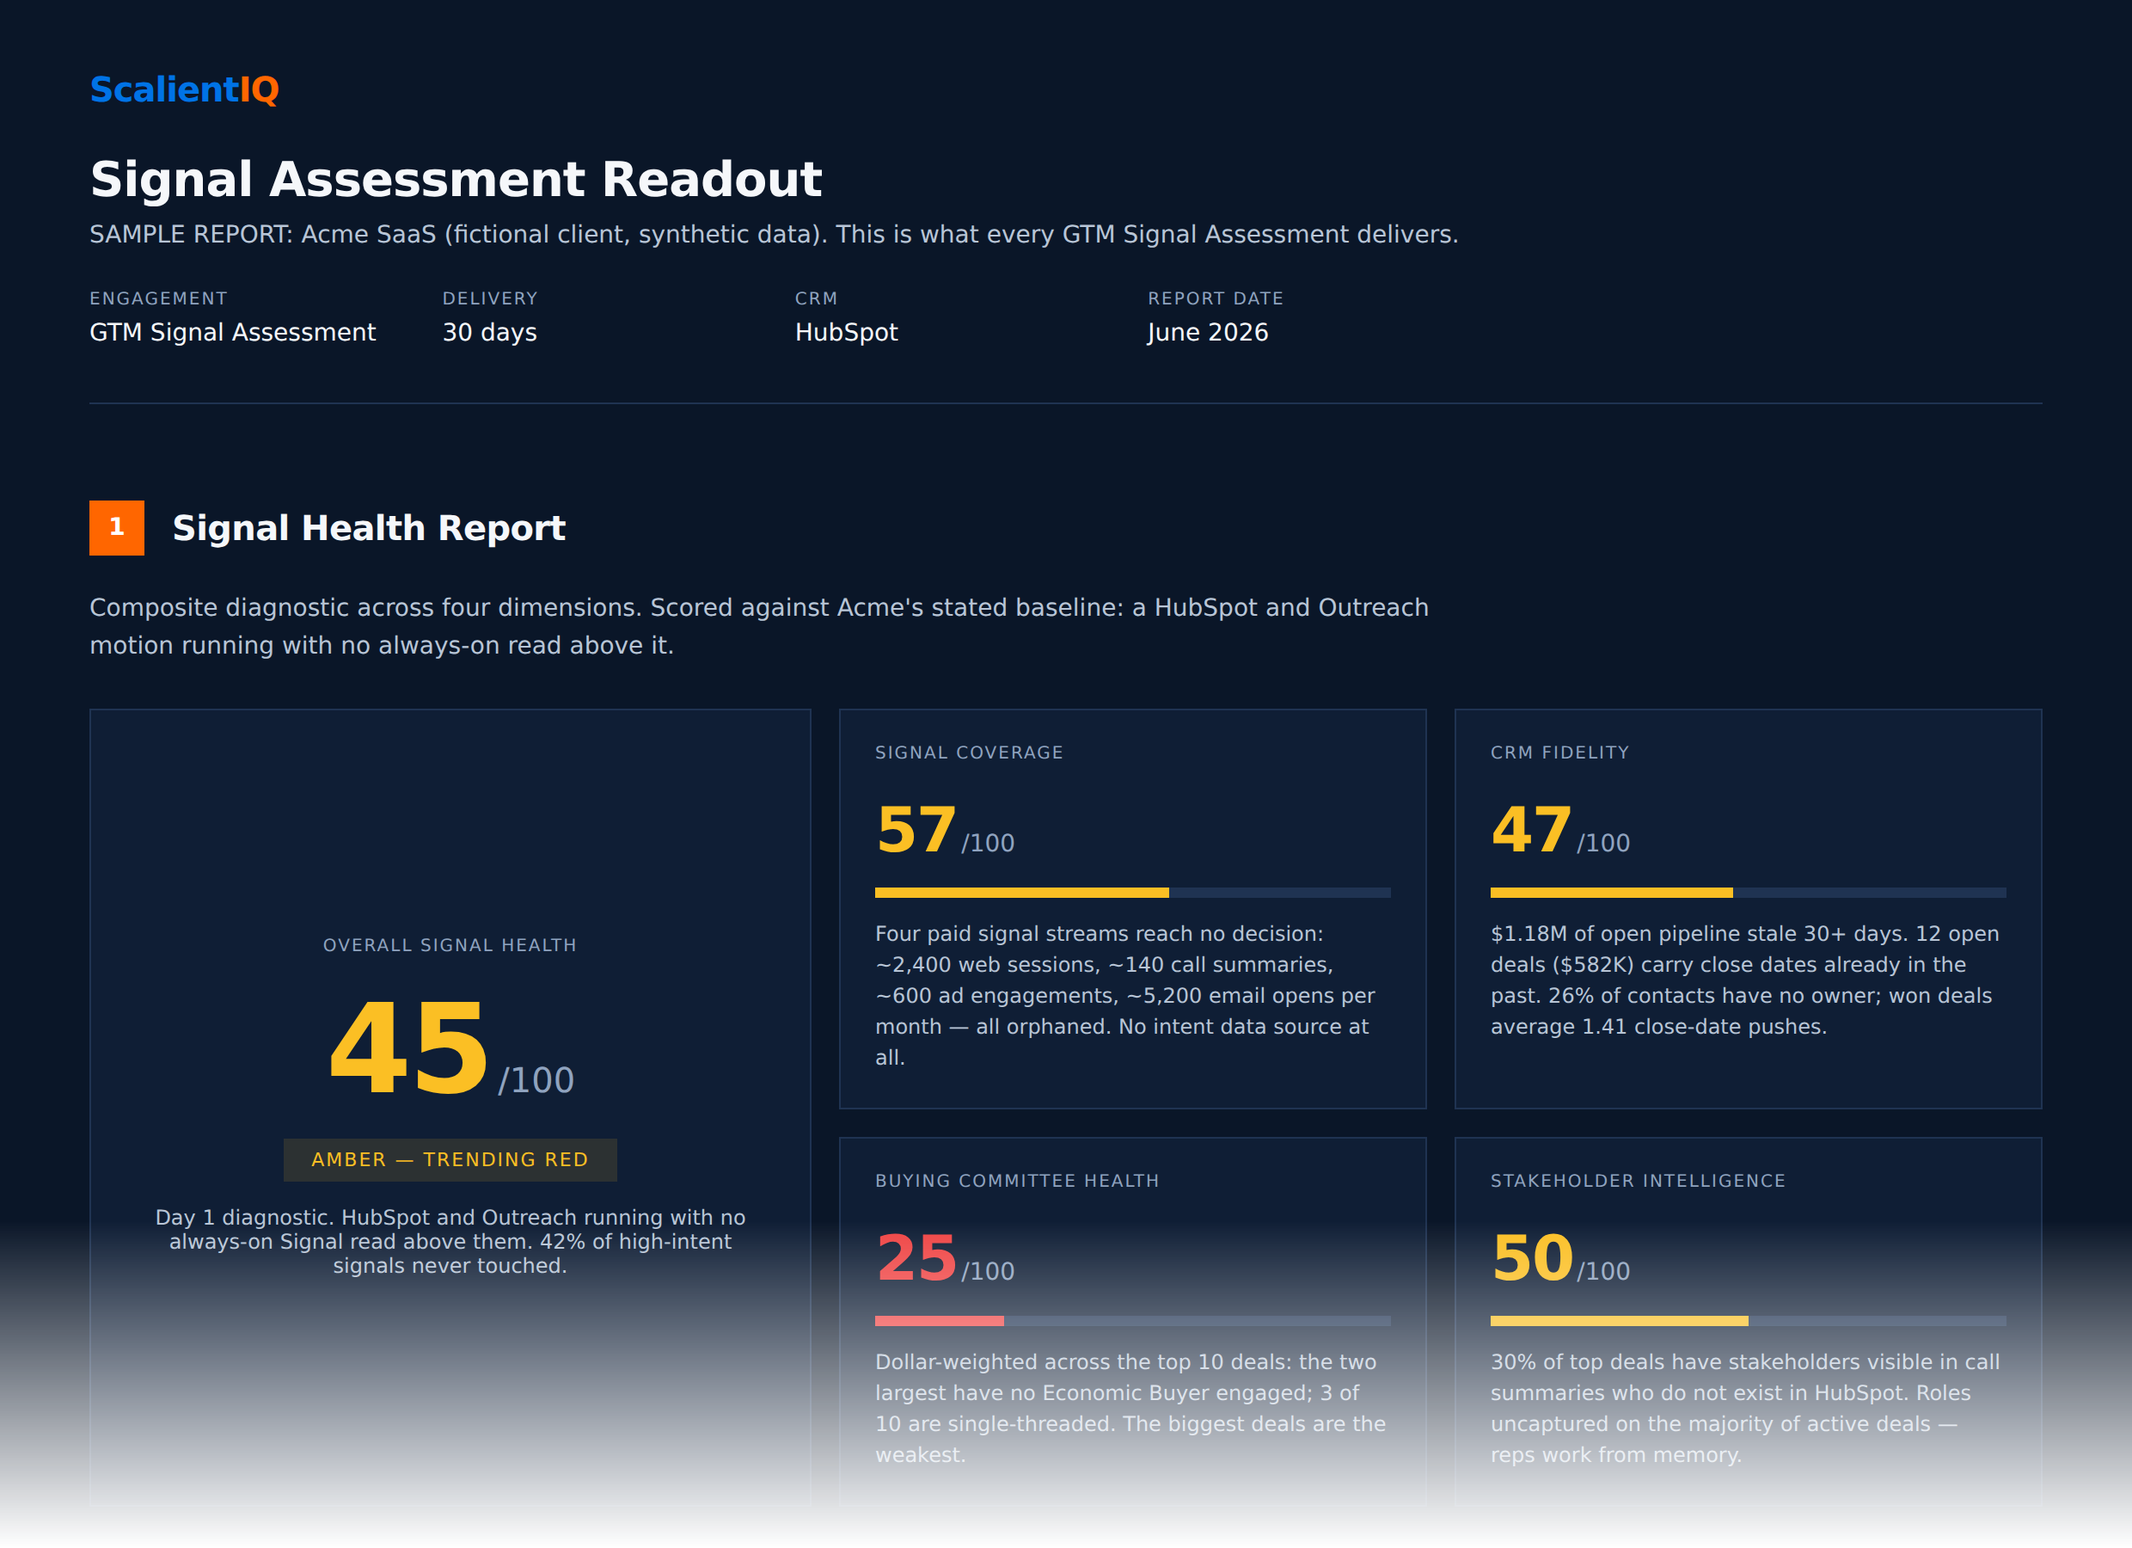
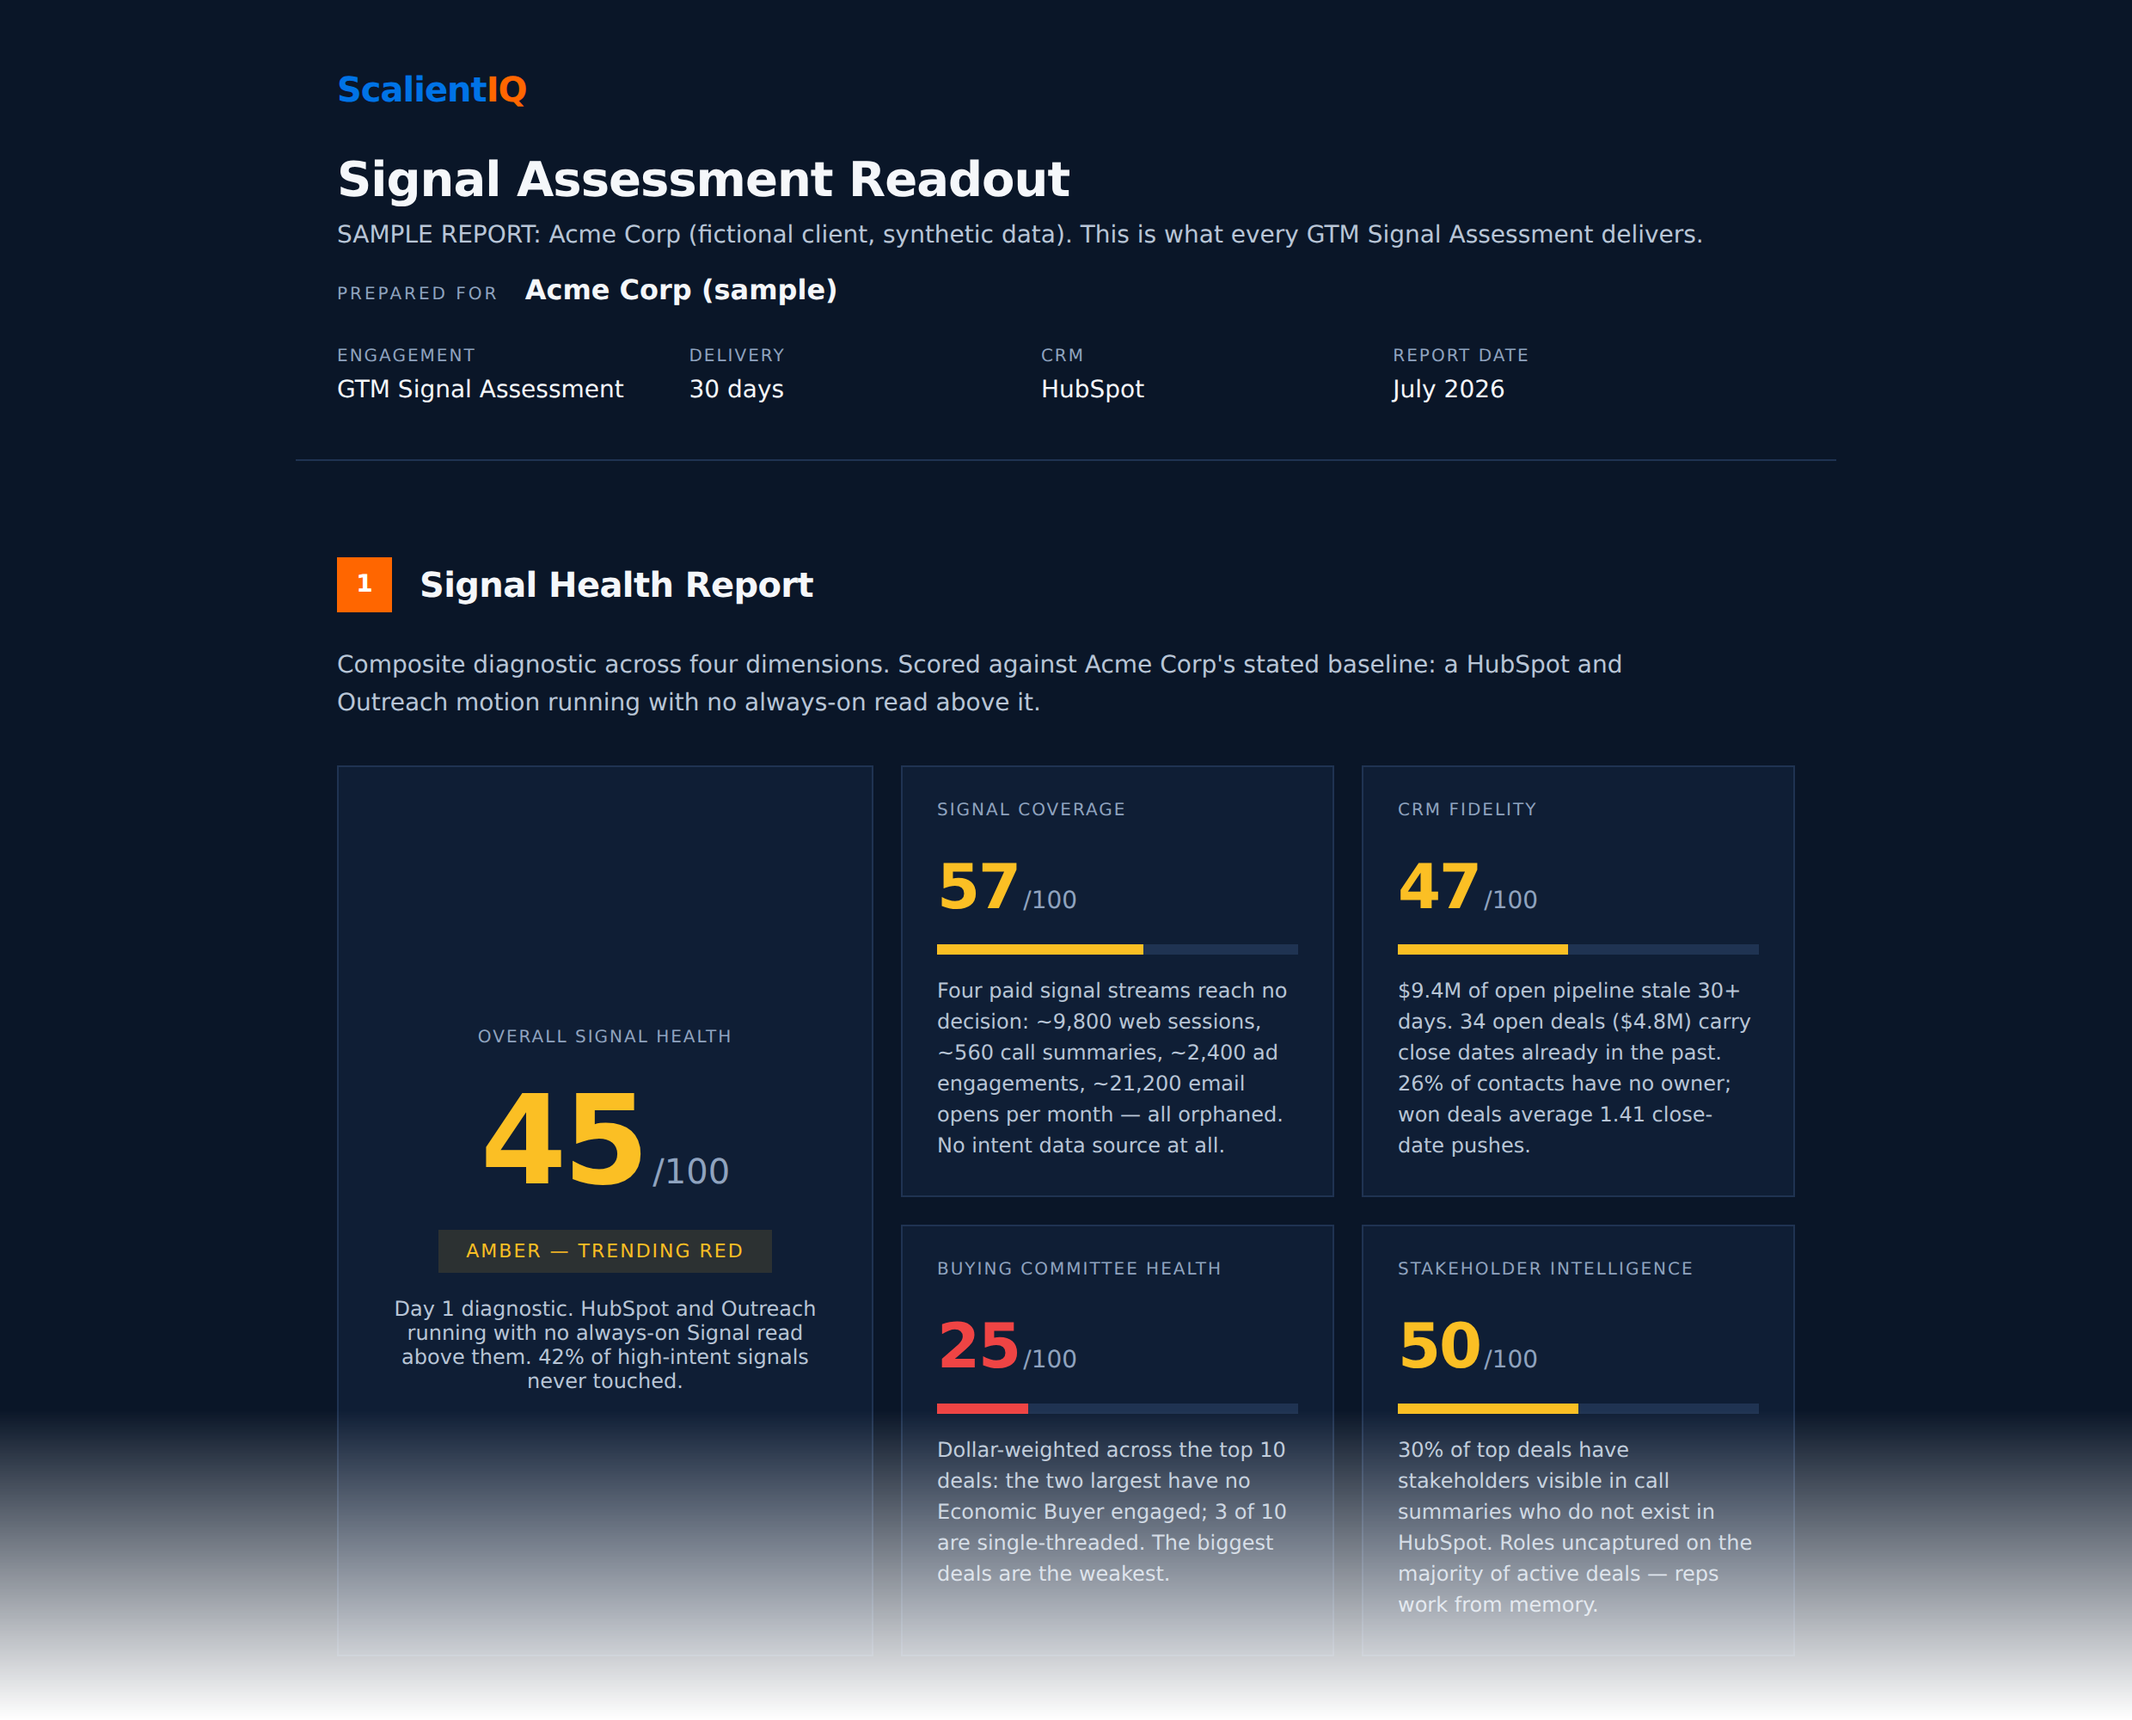
Results: enterprise-scale sample teasers (Sales + Demand, Acme Corp), bump card body copy to 16px

diff --git a/results.html b/results.html
@@ -67,14 +67,21 @@
 <section style="background: var(--siq-bg-elevated);">
   <div class="container">
     <div class="section-header">
-      <span class="eyebrow">Sample Readout</span>
-      <h2>A Look at the Signal Health Report</h2>
-      <p>A partial view of a sample GTM Signal Assessment readout, built on a fictional client (Acme SaaS) with synthetic data. Your assessment reads your own live data and delivers your own numbers, scored the same way. Figures shown are modeled estimates for discussion, not a guarantee.</p>
+      <span class="eyebrow">Sample Readouts</span>
+      <h2>Two Lenses, One Enterprise Read</h2>
+      <p>Partial views of a sample GTM Signal Assessment, built on a fictional enterprise (Acme Corp) with synthetic data. The Sales lens delivers the Signal Health Report, the Demand lens delivers the Demand Health Report, and running both gives you the full-funnel view. Your assessment reads your own live data and delivers your own numbers, scored the same way. Figures shown are modeled estimates for discussion, not a guarantee.</p>
     </div>
-    <div style="max-width: 1000px; margin: 0 auto;">
-      <img src="assessment-teaser.png" alt="Sample Signal Health Report readout showing an overall signal health score with dimension scores. Partial view, synthetic data." style="width:100%; height:auto; display:block; border:1px solid var(--siq-border);">
-      <p style="text-align:center; font-size: var(--fs-sm); color: var(--siq-text-muted); margin-top: var(--sp-4);">Partial view. Sample data shown for illustration only. <a href="assessment.html" style="color: var(--siq-orange); border-bottom:1px solid var(--siq-orange);">See what your own readout would surface</a>.</p>
+    <div style="max-width: 1040px; margin: 0 auto; display:flex; flex-direction:column; gap: var(--sp-10);">
+      <div>
+        <div class="component-label" style="margin-bottom: var(--sp-3);">Sales Lens &middot; Signal Health Report</div>
+        <img src="assessment-teaser.png" alt="Sample Signal Health Report for a fictional enterprise, showing an overall signal health score and dimension scores with dollar-priced pipeline findings. Partial view, synthetic data." style="width:100%; height:auto; display:block; border:1px solid var(--siq-border);">
+      </div>
+      <div>
+        <div class="component-label" style="margin-bottom: var(--sp-3);">Demand Lens &middot; Demand Health Report</div>
+        <img src="demand-teaser.png" alt="Sample Demand Health Report for a fictional enterprise, showing a demand health score across six Marketing Signal Matrix dimensions. Partial view, synthetic data." style="width:100%; height:auto; display:block; border:1px solid var(--siq-border);">
+      </div>
     </div>
+    <p style="text-align:center; font-size: var(--fs-sm); color: var(--siq-text-muted); margin-top: var(--sp-8);">Partial views. Sample data shown for illustration only. <a href="assessment.html" style="color: var(--siq-orange); border-bottom:1px solid var(--siq-orange);">See what your own readout would surface</a>.</p>
   </div>
 </section>
 <section>

diff --git a/styles.css b/styles.css
@@ -308,7 +308,7 @@ p { color: var(--siq-text-secondary); }
   font-size: var(--fs-lg);
 }
 .card h3 { margin-bottom: var(--sp-3); }
-.card p { font-size: var(--fs-sm); }
+.card p { font-size: var(--fs-base); line-height: 1.6; }
 
 /* ============ NUMBERED COMPONENT BLOCK ============ */
 .component {
